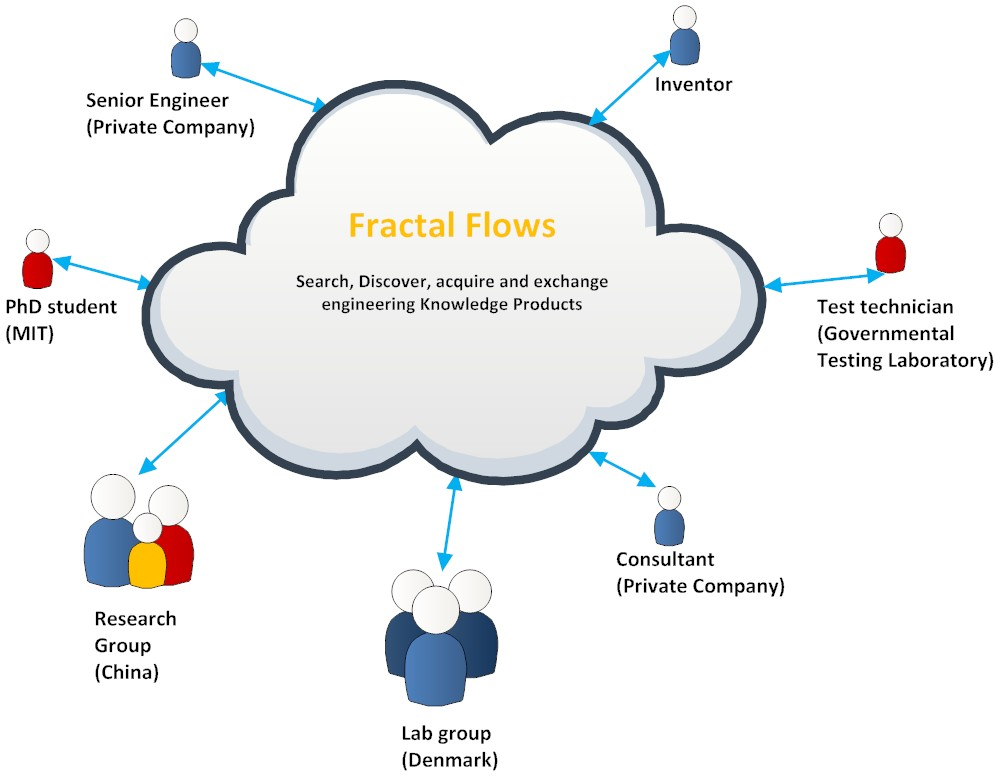
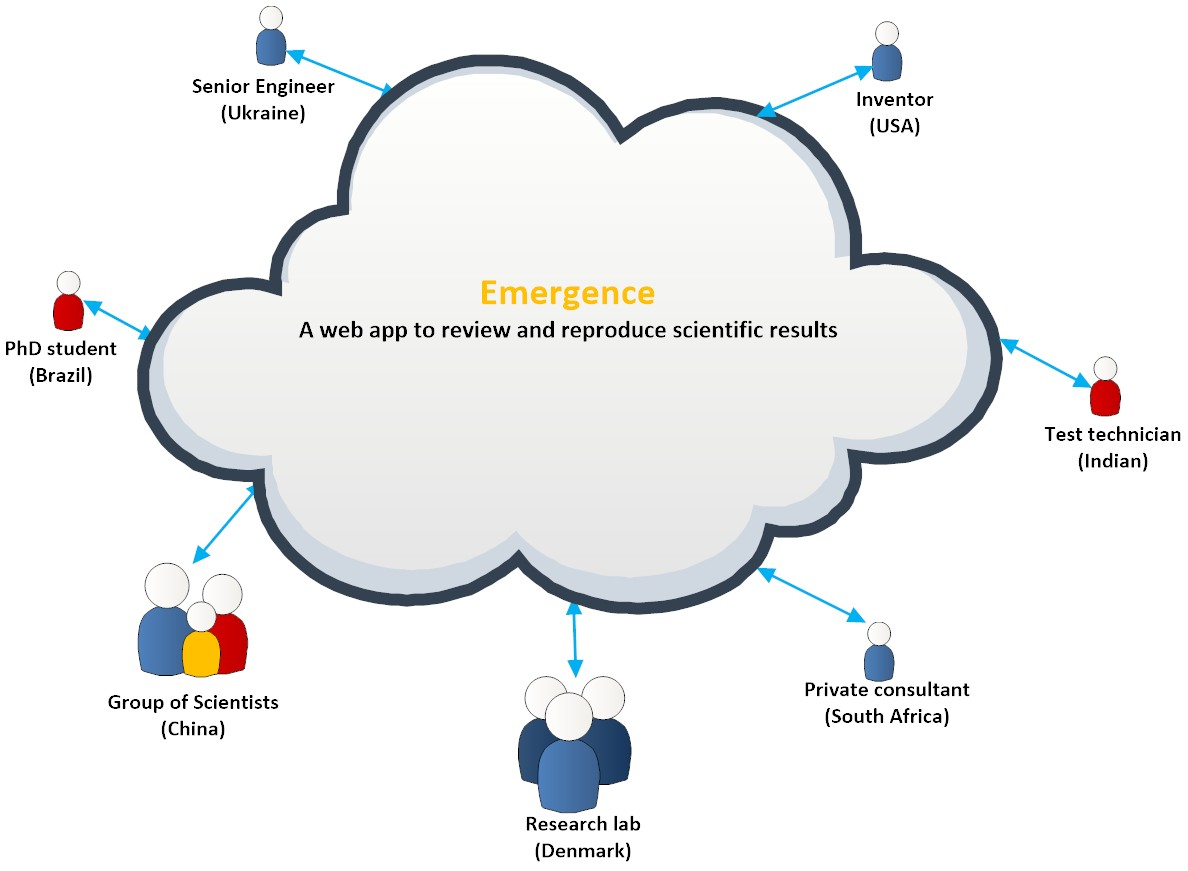
- In Taketour I added some code to make a video popup upon clicking a button. This movie shows how Emergence works - I added colorbox.js to make the video popup doable! - In Landing ABOUT section I included text explaining the idea behing Emergence from Fractal Flows. - In Style.css I changed a back

Changed region(s): [[0.0, 0.0, 0.993, 0.9884], [0.0621, 0.5869, 0.2482, 0.8958]]

diff --git a/webapp/templates/taketour.html b/webapp/templates/taketour.html
@@ -2,6 +2,8 @@
 {% extends "landing.html"%}
 
 
+
+
 {% block title %}
 Take a tour
 {% endblock %}
@@ -11,14 +13,25 @@ Take a tour
 
     <!-- Home Page
     ==========================================-->
-    <div id="tf-home-tour" class="text-center">
+    <div id="tf-home-tour" class="text-center" xmlns="http://www.w3.org/1999/html">
         <div class="overlay">
             <div class="content">
-                <h1><strong>Your portal to access the networks of</h1>
-                <h1><strong>engineering and science knowledge products</h1>
-                <p class="lead"> With Emergence from Fractal Flows, you can easily search, discover, share, acquire and exchange engineering</p>
-                <p class="lead"> knowledge products. You don't need to search through endless publications and databases any longer. Easily make </p>
-                <p class="lead"> sense of data and new research. See in real time how others are using your code, data, model, equations, experiments and files. </p>
+                <h1><strong>Your portal to review and reproduce</h1>
+                <h1><strong>results in scientific publications</h1>
+                <p style="padding: 10px; color: grey; background-color: white; width: 800px; height: 70px; border-radius: 20px; text-align: center; margin-left: 400px; border: black 2px solid">
+                    <span>Let's get started with <b><i>Emergence</i></b>. Watch the following video to learn how it works!</span>
+                    <a class='youtube' href='https://www.youtube.com/watch?v=B6zVzWU95Sw'>
+                        <button type="button" class="btn btn-success btn-lg">Watch the Video &#8594</button>
+                    </a>
+                    <script>
+                        $('.youtube').colorbox({iframe: true, width: 1040, height: 690, href:function(){
+                            var videoId = new RegExp('[\\?&]v=([^&#]*)').exec(this.href);
+                            if (videoId && videoId[1]) {
+                                return 'http://youtube.com/embed/'+videoId[1]+'?rel=0&wmode=transparent';
+                            }
+                        }});
+                    </script>
+                </p>
             </div>
         </div>
     </div>
@@ -51,7 +64,13 @@ Take a tour
         <div class="container">
             <div class="row">
                 <div class="col-md-6">
-                    <img src="{{url_for('.static', filename='img/FFConcept.jpg')}}" class="img-responsive">
+                    <!--
+                    <video width="525" height="384" controls>
+                        <source src="{{url_for('.static', filename='img/StudentVideo.mp4')}}" type="video/mp4">
+                        <source src="{{url_for('.static', filename='img/StudentVideo.webm')}}" type="video/webm">
+                        <source src="{{url_for('.static', filename='img/StudentVideo.ogg')}}" type="video/ogg">
+                    </video>
+                    -->
                 </div>
                 <div class="col-md-6">
                     <div class="about-text">
@@ -60,13 +79,16 @@ Take a tour
                             <hr>
                             <div class="clearfix"></div>
                         </div>
-                        <p class="intro">
-                                <li>Learn easily about the latest trends in engineering and science.</li>
+                        <font size="3">
+                                <li>Reproduce the results in an article.</li>
+                                <li>Request others to reproduce the results in my article.</li>
+                                <li>Share my knowledge products with my colleagues all over the world.</li>
+                                <li>Access knowledge products for free.</li>
+                                <li>Learn easily about the latest trends in engineering and science research.</li>
                                 <li>Reformulate complicated scientific text into simpler description for people like me to understand it.</li>
-                                <li>Access knowledge for free, if I contribute.</li>
                                 <li>Easily identify the current scientific consensus.</li>
                                 <li>Get help solving theoretical problems I am having.</li>
-                        </p>
+                        </font>
                     </div>
                 </div>
             </div>
@@ -87,17 +109,23 @@ Take a tour
                             <hr>
                             <div class="clearfix"></div>
                         </div>
-                        <p class="intro">
-                                <li>Share my datasets with my colleagues all over the world.</li>
-                                <li>Discover where new research is needed.</li>
-                                <li>Measure how much impact my work has had.</li>
-                                <li>Get feedback on my research/data/paper very early on before any publication takes place.</li>
+                        <font size="3">
+                                <li>Reproduce the results in an article.</li>
+                                <li>Make my article significantly more impactful by requesting others to reproduce the results in my article.</li>
+                                <li>Share my knowledge products with my colleagues all over the world.</li>
+                                <li>Discover new knowledge products related to my field of research.</li>
+                                <!-- <li>Discover where new research is needed.</li>
+                                <li>Measure how much impact my work has had.</li> -->
+                                <li>Get feedback on my research/data/code/experiment/results/article/etc. in the very early stages of my article publication.</li>
                                 <li>Discover new colleagues and new knowledge products where I least expect to find them.</li>
-                        </p>
+                        </font>
                     </div>
                 </div>
                 <div class="col-md-6">
+                <!--
                     <img src="{{url_for('.static', filename='img/FFConcept.jpg')}}" class="img-responsive">
+                 -->
+
                 </div>
             </div>
         </div>
@@ -112,7 +140,9 @@ Take a tour
         <div class="container">
             <div class="row">
                 <div class="col-md-6">
+                <!--
                     <img src="{{url_for('.static', filename='img/FFConcept.jpg')}}" class="img-responsive">
+                -->
                 </div>
                 <div class="col-md-6">
                     <div class="about-text">
@@ -121,13 +151,14 @@ Take a tour
                             <hr>
                             <div class="clearfix"></div>
                         </div>
-                        <p class="intro">
-                                <li>Find datasets that are relevant for my need, where I least expect to find such data.</li>
-                                <li>Access new simulation codes fresh from the research community.</li>
-                                <li>Ask/motivate the development teams to add new features / fix bugs.</li>
+                        <font size="3">
+                                <li>Access new knowledge products fresh from the research community to solve an engineering problem at hand.</li>
+                                <li>Quickly access to the scientific consensus about a hypothesis/theory/data/code/result presented in a given article.</li>
+                                <li>Easily make sense of new research, I don't need to search through endless publications any longer. </li>
+                              <!--  <li>Ask/motivate the development teams to add new features / fix bugs.</li>
                                 <li>Access private datasets.</li>
-                                <li>Ask questions to the relevant experts.</li>
-                        </p>
+                                <li>Ask questions to the relevant experts.</li>-->
+                        </font>
                     </div>
                 </div>
             </div>
@@ -144,7 +175,7 @@ Take a tour
         <div class="container">
             <div class="row">
                 <div class="col-md-6">
-                    <img src="{{url_for('.static', filename='img/12idea.184.jpg')}}" class="img-responsive">
+                    <img src="{{url_for('.static', filename='img/Big-Data.jpg')}}" class="img-responsive">
                 </div>
                 <div class="col-md-6">
                     <div class="about-text">
@@ -153,8 +184,10 @@ Take a tour
                             <hr>
                             <div class="clearfix"></div>
                         </div>
-                        <p class="intro"><strong>Knowledge Products include:</strong> experimental data, experimental setup, numerical simulation data, files containing data, simulation code, theoretical solutions, models, models results, equations, mathematical formulations, publications, source code, licenses to simulation code, etc.</p>
+                        <font size="4">Knowledge products are what makes the backbone of any scientific publication. Knowledge products could include: experimental data, experimental setup, numerical simulation data, files containing data, simulation code, theoretical solutions, models, models results, equations, mathematical formulations, source code, licenses to simulation code, etc.</font>
+                        <!--
                         <p class="intro"><strong>Knowledge Repositories include:</strong> GitHub, GitLab, Zenodo, university databases, open access scholarly publications repositories, personal data server, a shared Google Drive, Dropbox, Box, or OneDrive repositories, etc.</p>
+                        -->
                     </div>
                 </div>
             </div>
@@ -173,14 +206,12 @@ Take a tour
                 <div class="col-md-6">
                     <div class="about-text">
                         <div class="section-title">
-                            <h2><strong> <font color="black">Search and exchange</font></strong></h2>
-                            <p>
-                            <h2><strong> <font color="black">through networks</font></strong></h2>
+                            <h2><strong> <font color="black">Ready to give it a try?</font></strong></h2>
                             <div class="clearfix"></div>
                         </div>
                         <p>
                         <p>
-                        <a class="btn btn-success btn-lg" href="taketour" role="button">Get started...</a>
+                        <a class="btn btn-success btn-lg" href="http://www.emergence.fractalflows.com" role="button">Get started with <strong>Emergence</strong> &#8594;</a>
                     </div>
                 </div>
                 <div class="col-md-6">

diff --git a/webapp/templates/landing.html b/webapp/templates/landing.html
@@ -28,7 +28,6 @@
 <link href='http://fonts.googleapis.com/css?family=Lato:100,300,400,700,900,100italic,300italic,400italic,700italic,900italic' rel='stylesheet' type='text/css'>
 <link href='http://fonts.googleapis.com/css?family=Open+Sans:300italic,400italic,600italic,700italic,800italic,700,300,600,800,400' rel='stylesheet' type='text/css'>
 
-
 <script type="text/javascript" src="{{url_for('.static', filename='js/modernizr.custom.js')}}"></script>
 <script src="https://ajax.googleapis.com/ajax/libs/jquery/1.11.3/jquery.min.js"></script>
 <script src="http://maxcdn.bootstrapcdn.com/bootstrap/3.3.5/js/bootstrap.min.js"></script>
@@ -51,6 +50,40 @@ $(document).ready(function(){
 });
 </script>
 
+
+<!-- javascript jquery code to make popup videos -->
+<link rel="stylesheet" href="{{url_for('.static', filename='css/colorbox.css')}}">
+<script src="https://ajax.googleapis.com/ajax/libs/jquery/1.11.3/jquery.min.js"></script>
+<script src="{{url_for('.static', filename='js/jquery.colorbox.js')}}"></script>
+<script>
+    $(document).ready(function(){
+	//Examples of how to assign the Colorbox event to elements
+	$(".group1").colorbox({rel:'group1'});
+	$(".group2").colorbox({rel:'group2', transition:"fade"});
+	$(".group3").colorbox({rel:'group3', transition:"none", width:"75%", height:"75%"});
+	$(".group4").colorbox({rel:'group4', slideshow:true});
+	$(".ajax").colorbox();
+	$(".youtube").colorbox({iframe:true, innerWidth:640, innerHeight:390});
+	$(".vimeo").colorbox({iframe:true, innerWidth:500, innerHeight:409});
+	$(".iframe").colorbox({iframe:true, width:"80%", height:"80%"});
+	$(".inline").colorbox({inline:true, width:"50%"});
+	$(".callbacks").colorbox({
+	    onOpen:function(){ alert('onOpen: colorbox is about to open'); },
+		onLoad:function(){ alert('onLoad: colorbox has started to load the targeted content'); },
+		onComplete:function(){ alert('onComplete: colorbox has displayed the loaded content'); },
+		onCleanup:function(){ alert('onCleanup: colorbox has begun the close process'); },
+		onClosed:function(){ alert('onClosed: colorbox has completely closed'); }
+		});
+		$('.non-retina').colorbox({rel:'group5', transition:'none'})
+		$('.retina').colorbox({rel:'group5', transition:'none', retinaImage:true, retinaUrl:true});
+
+		//Example of preserving a JavaScript event for inline calls.
+		$("#click").click(function(){
+		$('#click').css({"background-color":"#f00", "color":"#fff", "cursor":"inherit"}).text("Open this window again and this message will still be here.");
+		return false;
+		});
+    });
+</script>
 
 
 {% endblock %}
@@ -78,7 +111,7 @@ Emergence from Fractal Flows
           <ul class="nav navbar-nav navbar-right">
             <li><a href="#tf-home" class="page-scroll"><b>Home</b></a></li>
             <li><a href="#tf-about" class="page-scroll"><b>About</b></a></li>
-            <li><a href="taketour" class="page-scroll"><b>Benefits</b></a></li>
+            <li><a href="taketour" class="page-scroll"><b>How it Works</b></a></li>
             <li><a href="#tf-team" class="page-scroll"><b>Team</b></a></li><!--
             <!--<li><a href="#tf-contact" class="page-scroll">Contact</a></li>-->
             <li><a href="http://emergencefractalflows.tumblr.com/" class="page-scroll"><b>Our Blog</b></a></li>
@@ -95,12 +128,9 @@ Emergence from Fractal Flows
     <div id="tf-home" class="text-center">
         <div class="overlay">
             <div class="content">
-                <h1>Welcome to <strong><span class="color">Emergence</span></strong> from <strong>Fractal Flows</strong></h1>
-                <p class="lead">Where <strong>engineers</strong>, <strong>researchers</strong>, and <strong>students</strong> emerge their <strong>knowledge</strong> from the chaos of information</p>
-                <p class="lead"> <strong>Search</strong>, <strong>discover</strong>, <strong>acquire</strong> and <strong>exchange</strong> engineering knowledge products</p>
-                <form action="http://www.google.com">
-                    <button type="button" class="btn btn-success btn-lg">Try it for free &#8594;</button>
-                </form>
+                <h1><strong><span class="color">Emergence</span></strong> from <strong>Fractal Flows</strong></h1>
+                <p class="lead"><strong>A web app to review and reproduce scientific results</strong></p>
+                 <a class="btn btn-success btn-lg" href="http://www.emergence.fractalflows.com" role="button">Try <strong>Emergence</strong> for free &#8594;</a>
             </div>
         </div>
     </div>
@@ -112,6 +142,21 @@ Emergence from Fractal Flows
             <div class="row">
                 <div class="col-md-6">
                     <img src="{{url_for('.static', filename='img/FFConcept.jpg')}}" class="img-responsive">
+                    <p></p>
+                    <p></p>
+                    <p></p>
+                    <p style="padding: 10px; color: black; background-color: #FAA9C5; width: 400px; height: 120px; border-radius: 20px; text-align: left; margin-left: 0px; border: black 2px solid">
+                            <font size="4">On <strong>Emergence</strong> you can review a scientific article and reproduce its results.</font>
+                    </p>
+                    <p style="padding: 10px; color: black; background-color: #F8F67B; width: 400px; height: 120px; border-radius: 20px; text-align: left; margin-left: 80px; border: black 2px solid">
+                            <font size="4">On <strong>Emergence</strong> Others can review your article and reproduce its results making your article far more useful and impactful.</font>
+                    </p>
+                    <p style="padding: 10px; color: black; background-color: #59B2F2; width: 400px; height: 120px; border-radius: 20px; text-align: left; margin-left: 0px; border: black 2px solid">
+                            <font size="4">On <strong>Emergence</strong> you can easily search, discover, share, acquire and exchange knowledge products of any article.</font>
+                    </p>
+                    <p style="padding: 10px; color: black; background-color: #83DD9E; width: 400px; height: 120px; border-radius: 20px; text-align: left; margin-left: 80px; border: black 2px solid">
+                            <font size="4">On <strong>Emergence</strong> engineers, scientists, researchers, and students collaborate and emerge their knowledge from the chaos of scientific articles and publications.</font>
+                    </p>
                 </div>
                 <div class="col-md-6">
                     <div class="about-text">
@@ -120,10 +165,16 @@ Emergence from Fractal Flows
                             <hr>
                             <div class="clearfix"></div>
                         </div>
+                        <!--
                         <p class="intro"><strong>Emergence from Fractal Flows</strong> is an online exchange system that makes it easier for engineers, scientists, researchers and students to search, discover, collaborate, acquire and exchange engineering information, data and knowledge products. The exchange system integrates and links networks of knowledge repositories and tracks their evolution and <strong>emerge</strong> a value from the perspective of various communities.</p>
-                        <p class="intro"><strong>Knowledge Products include:</strong> experimental data, experimental setup, numerical simulation data, files containing data, simulation code, theoretical solutions, models, models results, equations, mathematical formulations, publications, source code, licenses to simulation code, etc.</p>
-                        <p class="intro"><strong>Knowledge Repositories include:</strong> GitHub, GitLab, Zenodo, university databases, open access scholarly publications repositories, personal data server, a shared Google Drive, Dropbox, Box, or OneDrive repositories, etc.</p>
-<!--
+    -->
+                        <p class="intro">Every year there are more than <u>2 millions</u> articles that are published in scientific peer-review journals. Unfortunately, only a small fraction of those will be reproducible. Even worst, hidden under those millions of articles there is an even greater number of results, datasets and source code (i.e. <strong>Knowledge Products</strong>) that will never see the light of day, and will slowly rote, submerged, deep inside the abyss of the authors' hard disks. Those Knowledge Products could be extremely important to assess the reproducibility of those articles, and to actually make the articles useful. But unfortunately, for multiple-reasons, the system discourage the authors to share those Knowledge Products. Those two effects combined, create a tsunamy of low quality publications, which saturates the attention of engineers, reduces the speed of scientific progress and waste an enormous amount of time and money for society.</p>
+                        <p class="intro">We, at <strong>FractalFlows</strong>, are developing a web app called <strong>Emergence</strong> that allow anyone to review and most importantly reproduce hypothesis, methodologies, simulation results, experimental results, analysis, datasets and source code featured in an article. Thus (1) making it easier for engineers, scientists, researchers and students to search, discover, collaborate, share, acquire and exchange the necessary knowledge products revolving around a given article, and (2) making the article significantly more useful!</p>
+                        <p class="intro"><strong>Emergence</strong> is integrated with two external tools: <u>Github</u> and <u>Zenodo</u> (..and more to come). <strong>Integrations</strong> let you automatically pull information and activity from outside tools into Emergence in a way that's timely, relevant, and searchable. </p>
+                        <p class="intro"><strong>What we consider as Knowledge Products include:</strong> experimental data, experimental setup, numerical simulation data, files containing data, simulation code, theoretical solutions, models, models results, equations, mathematical formulations, source code, licenses to simulation code, etc.</p>
+<!--                        <p class="intro"><strong>Knowledge Repositories include:</strong> GitHub, GitLab, Zenodo, university databases, open access scholarly publications repositories, personal data server, a shared Google Drive, Dropbox, Box, or OneDrive repositories, etc.</p>
+                        <p class="intro"><strong>Knowledge Repositories include:</strong> GitHub and Zenodo.</p>
+
                         <ul class="about-list">
                             <li>
                                 <span class="fa fa-dot-circle-o"></span>

diff --git a/webapp/static/css/style.css b/webapp/static/css/style.css
@@ -133,7 +133,7 @@ font-weight: 900;
 
 /* Home Style */
 #tf-home{
-	background: url(../img/01.jpg);
+	background: url(../img/Pomeroy-Kirpich-Wave-of-the-Future.jpg);
 	background-size: cover;
 	background-position: center;
 	background-attachment: fixed;
@@ -159,7 +159,7 @@ font-weight: 900;
 
 /* Home Style of the tour page*/
 #tf-home-tour{
-	background: url(../img/01.jpg);
+	background: url(../img/Pomeroy-Kirpich-Wave-of-the-Future.jpg);
 	background-size: cover;
 	background-position: center;
 	background-attachment: fixed;
